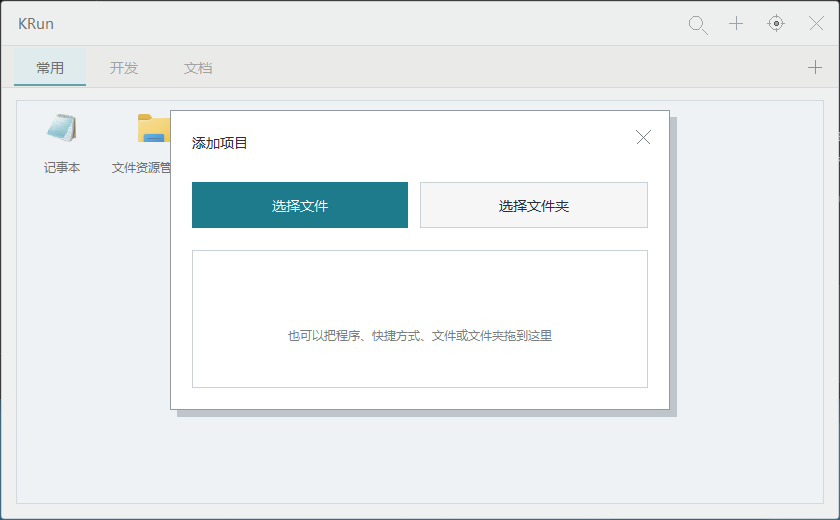
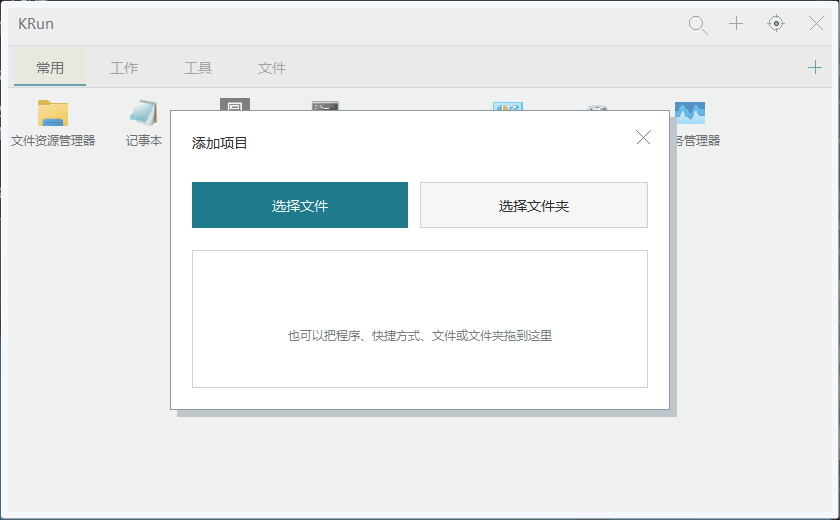
feat: add official website and portable release workflows

diff --git a/docs/style.css b/docs/style.css
@@ -1,0 +1,1 @@
+:root{--paper:#f5f5ef;--ink:#203931;--muted:#64726a;--line:#d9ded3;--accent:#315944;--lime:#dce89d;--white:#fff;scroll-behavior:smooth;color-scheme:light}*{box-sizing:border-box}body{margin:0;background:var(--paper);color:var(--ink);font:16px/1.7 "Segoe UI","Microsoft YaHei",sans-serif}a{color:inherit;text-decoration:none}button,input{font:inherit}button,a,input{ -webkit-tap-highlight-color:transparent}button{cursor:pointer}a,button,input{outline-offset:5px}a:focus-visible,button:focus-visible,input:focus-visible,[tabindex]:focus-visible{outline:3px solid #547c35}button,a{touch-action:manipulation}img{max-width:100%;height:auto;display:block}figure{margin:0}h1,h2,h3,p{margin-top:0}h1,h2,h3{line-height:1.22;letter-spacing:-.045em}h1{font-size:clamp(45px,6.4vw,84px);font-weight:600;margin-bottom:28px}h1 span{color:#7b876c}h2{font-size:clamp(29px,3.5vw,44px);font-weight:550;margin-bottom:28px}h3{font-size:22px;font-weight:600}p{color:var(--muted)}.wrap{max-width:1120px;margin-inline:auto;padding-inline:32px}.nav{display:flex;align-items:center;justify-content:space-between;height:94px;border-bottom:1px solid var(--line)}.brand{display:flex;gap:10px;align-items:center;font-size:24px;font-weight:650;letter-spacing:-1px}.brand span{font-size:10px;letter-spacing:2px;font-weight:500;color:var(--muted);margin-left:14px}.nav nav{display:flex;align-items:center;gap:30px;font-size:14px}.nav-download{border:1px solid var(--line);padding:8px 18px;border-radius:7px}.nav a:hover,footer a:hover{color:#6d813c}.hero{padding-top:74px;text-align:center;overflow:hidden}.eyebrow{font-size:12px;letter-spacing:2px;font-weight:600;margin-bottom:22px}.dot{display:inline-block;height:6px;width:6px;border-radius:50%;background:#6a8b45;margin-right:7px;box-shadow:0 0 0 4px #6a8b4510}.intro{font-size:17px;line-height:1.9}kbd{font:12px "Segoe UI",sans-serif;border:1px solid #d4dbcd;border-bottom-width:2px;border-radius:5px;padding:3px 7px;background:#fafbf7;color:var(--ink)}.actions{display:flex;gap:12px;justify-content:center;margin-top:30px}.button{display:inline-flex;align-items:center;justify-content:center;gap:35px;min-height:50px;padding:12px 25px;border-radius:7px;font-size:14px;transition:transform .2s,background .2s,box-shadow .2s}.primary{background:var(--ink);color:var(--white);box-shadow:0 7px 15px #20393113}.primary:hover{background:#355341;transform:translateY(-3px);box-shadow:0 10px 22px #20393125}.button:active{transform:translateY(1px) scale(.97)}.subtle{border:1px solid var(--line)}.subtle:hover{background:#e8eddf}.micro{font-size:11px;letter-spacing:1px;margin-top:17px}.hero-visual{position:relative;margin:60px auto 24px;max-width:900px;perspective:1500px}.image-frame{position:relative;padding:8px;border-radius:12px;background:#ffffff80;border:1px solid #fff;box-shadow:0 24px 55px #31462a20;transform:rotateX(7deg);transform-origin:center bottom;animation:arrive 1.1s cubic-bezier(.2,.7,.2,1) both}.image-frame img{width:100%;border-radius:5px}.halo{position:absolute;inset:-50px -80px;background:radial-gradient(ellipse,#ccdda280,transparent 68%);filter:blur(20px);animation:breathe 8s ease-in-out infinite alternate;pointer-events:none}figcaption{font-size:11px;color:var(--muted);margin-top:18px}.principles{display:flex;justify-content:space-evenly;gap:20px;font-size:12px;color:var(--muted);border-block:1px solid var(--line);padding-block:24px;margin-top:45px}.section{padding-top:110px;scroll-margin-top:28px}.section-heading{display:flex;justify-content:space-between;align-items:end;gap:24px}.section-heading>p{font-size:13px;margin-bottom:30px}.demo{background:#fcfcf9;border:1px solid #cdd5c8;border-radius:12px;overflow:hidden;box-shadow:0 18px 50px #243d2510}.demo-title{display:flex;justify-content:space-between;align-items:center;padding:16px 24px;border-bottom:1px solid var(--line)}.demo-title strong{font-weight:550}.demo-title strong span{font-size:10px;letter-spacing:1px;margin-left:12px;color:var(--muted)}.demo-title button{border:1px solid var(--line);background:transparent;border-radius:5px;padding:5px 16px;color:var(--ink)}.tabs{display:flex;gap:8px;padding:10px 20px 0;border-bottom:1px solid var(--line)}.tabs button{padding:10px 20px;border:0;border-bottom:2px solid transparent;background:none;color:var(--muted);font-size:13px;transition:background .2s,color .2s}.tabs button[aria-selected=true]{border-bottom-color:var(--accent);background:#e9eedd;color:var(--ink)}.tabs button:hover,.demo-title button:hover{background:#e5ebdd}.search-wrap{position:relative;margin:22px 24px 12px}.search-wrap label{display:block;font-size:11px;color:var(--muted);margin-bottom:5px}.search-wrap input{width:100%;border:1px solid var(--line);background:#fff;border-radius:6px;padding:10px 35px 10px 12px;font-size:13px;color:var(--ink)}.search-wrap>span{position:absolute;right:14px;bottom:7px;font-size:22px;color:var(--muted)}#demo-panel{min-height:255px;padding:12px 24px 30px}.demo-grid{display:grid;grid-template-columns:repeat(6,minmax(0,1fr));gap:8px}.app-tile{border:1px solid transparent;background:transparent;min-height:105px;border-radius:8px;color:var(--ink);display:flex;flex-direction:column;align-items:center;justify-content:center;gap:10px;font-size:12px;transition:transform .18s,background .18s,border-color .18s;animation:tile-in .3s ease both}.app-tile:hover{background:#e6eddb;transform:translateY(-3px)}.app-tile[aria-pressed=true]{background:#dce7cd;border-color:#bacba7}.app-tile:active{transform:scale(.94);background:#ccdcbc}.app-icon{display:grid;place-items:center;width:38px;height:38px;border-radius:10px;background:var(--tile-bg,#e5e9db);color:var(--tile-ink,#4b6340);font-size:19px;font-weight:600;box-shadow:inset 0 1px 0 #ffffff80}.demo-footer{border-top:1px solid var(--line);padding:12px 24px;display:flex;justify-content:space-between;gap:12px;font-size:10px;color:var(--muted)}#demo-settings{padding:25px 32px;min-height:365px}#demo-settings h3{margin-bottom:8px}#demo-settings>p{font-size:12px}.setting-row{display:flex;justify-content:space-between;align-items:center;padding:13px 0;border-top:1px solid var(--line);font-size:13px}.setting-row small{display:block;font-size:10px;color:var(--muted)}input[role=switch]{appearance:none;width:36px;height:20px;border-radius:20px;background:#c9cec5;cursor:pointer;position:relative;flex-shrink:0;transition:background .2s}input[role=switch]:before{content:"";position:absolute;top:3px;left:3px;width:14px;height:14px;border-radius:50%;background:#fff;transition:transform .2s}input[role=switch]:checked{background:var(--accent)}input[role=switch]:checked:before{transform:translateX(16px)}input[role=switch]:disabled{opacity:.4;cursor:not-allowed}#empty{padding-top:30px;text-align:center;font-size:13px}.features{display:grid;grid-template-columns:repeat(3,1fr);gap:22px;margin-top:40px}.features article{border-top:1px solid var(--line);padding:25px 0 0}.feature-number{font-size:11px;letter-spacing:2px;color:#89917b;display:block;margin-bottom:26px}.features p{font-size:13px;line-height:1.9;max-width:290px;min-height:75px}.code-art,.tag-art,.file-art{min-height:100px;background:#ecf0e4;border-radius:7px;display:flex;align-items:center;justify-content:center;font-size:15px;gap:8px}.code-art{font-family:monospace;font-size:19px}.code-art span{color:#87954f}.tag-art span{font-size:12px;border:1px solid #d2dbc5;padding:5px 11px;border-radius:5px}.tag-art span:first-child{background:#dce7c4}.file-art{font:13px monospace}.file-art span{color:#8a9679}.native{display:grid;grid-template-columns:.7fr 1fr;gap:65px;align-items:center}.native p,.native a{font-size:13px}.native a{text-decoration:underline;text-underline-offset:6px}.shots{display:grid;gap:22px}.shots figure{border:1px solid var(--line);border-radius:9px;padding:6px;background:#fff;box-shadow:0 12px 24px #243d2510;transition:transform .3s}.shots figure:hover{transform:translateY(-5px)}.shots img{border-radius:4px}.shots figcaption{padding:0 8px 4px;margin-top:8px}.closing{padding-top:120px;padding-bottom:100px;text-align:center}.closing h2{font-size:clamp(40px,5vw,65px)}footer{display:flex;align-items:center;gap:25px;border-top:1px solid var(--line);min-height:95px;font-size:11px}footer p{margin:0 auto 0 0}footer .brand{font-size:20px}.skip{position:fixed;top:-70px;left:20px;z-index:20;padding:10px;background:#fff}.skip:focus{top:10px}.reveal{transition:opacity .8s,transform .8s}.motion .reveal:not(.visible){opacity:0;transform:translateY(35px)}[hidden]{display:none!important}@keyframes arrive{from{opacity:0;transform:translateY(55px) rotateX(15deg)}to{opacity:1;transform:translateY(0) rotateX(7deg)}}@keyframes breathe{to{transform:translateY(20px) scale(1.12);opacity:.6}}@keyframes tile-in{from{opacity:0;transform:translateY(8px)}to{opacity:1;transform:translateY(0)}}@media(max-width:720px){.wrap{padding-inline:22px}.nav{height:78px}.brand span{display:none}.nav nav{gap:17px}.hero{padding-top:52px}.intro{font-size:14px}.hero-visual{margin-top:40px}.principles{font-size:10px;gap:10px;text-align:center}.section{padding-top:75px}.section-heading{display:block}.demo-grid{grid-template-columns:repeat(3,minmax(0,1fr))}.demo-footer{flex-direction:column;gap:4px}.features{grid-template-columns:1fr;gap:35px}.features p{max-width:none;min-height:auto}.feature-number{margin-bottom:18px}.features h3{margin-bottom:14px}.native{grid-template-columns:1fr;gap:25px}.shots{grid-template-columns:1fr 1fr;gap:12px}.closing{padding-block:80px}.demo-title{padding:14px 18px}#demo-panel{padding-inline:14px}.search-wrap{margin-inline:18px}footer{flex-wrap:wrap;gap:15px;padding-block:24px}footer p{width:calc(100% - 80px);font-size:10px}.eyebrow{font-size:10px}.shots figcaption{font-size:9px}}@media(prefers-reduced-motion:reduce){:root{scroll-behavior:auto}*,*:before,*:after{animation:none!important;transition:none!important}.motion .reveal:not(.visible){opacity:1;transform:none}.image-frame{transform:none}}

diff --git a/docs/index.html b/docs/index.html
@@ -1,0 +1,24 @@
+<!doctype html>
+<html lang="zh-CN">
+<head>
+<meta charset="utf-8"><meta name="viewport" content="width=device-width, initial-scale=1">
+<meta name="description" content="KRun 是 Rust + Win32 构建的开源 Windows 分类启动器。一个快捷键，让应用、文件和文件夹触手可及。便携使用，配置留在本地。">
+<meta name="theme-color" content="#f5f5ef"><meta property="og:title" content="KRun — 少一点寻找，多一点专注。"><meta property="og:description" content="原生 Windows 分类启动器。一个快捷键，回到你的工作节奏。"><meta property="og:type" content="website"><meta property="og:image" content="https://1227cwx.github.io/krun/images/krun-launcher.png">
+<title>KRun — 少一点寻找，多一点专注。</title>
+<link rel="icon" href="icon.svg" type="image/svg+xml"><link rel="stylesheet" href="style.css"><script defer src="app.js"></script>
+</head>
+<body>
+<a class="skip" href="#main">跳到主要内容</a>
+<header class="nav wrap"><a class="brand" href="#" aria-label="KRun 首页"><img src="icon.svg" alt="" width="30" height="30">KRun<span>FOR WINDOWS</span></a><nav aria-label="主导航"><a href="#experience">体验</a><a href="#details">特点</a><a class="nav-download" href="https://github.com/1227cwx/krun/releases" target="_blank" rel="noopener">下载 <span aria-hidden="true">↗</span></a></nav></header>
+<main id="main">
+<section class="hero wrap"><p class="eyebrow"><span class="dot"></span> 小巧原生 · 开源免费 · 为 Windows 而生</p><h1>少一点寻找，<br><span>多一点专注。</span></h1><p class="intro">应用、文件、文件夹，收进一个安静的启动板。<br>按下 <kbd>Alt</kbd> + <kbd>Q</kbd>，回到你的工作节奏。</p><div class="actions"><a class="button primary" href="https://github.com/1227cwx/krun/releases" target="_blank" rel="noopener">下载 KRun <span aria-hidden="true">↗</span></a><a class="button subtle" href="#experience">先试一下 <span aria-hidden="true">↓</span></a></div><p class="micro">Windows 10 / 11 · x64 · 解压即用</p>
+<figure class="hero-visual"><div class="halo" aria-hidden="true"></div><div class="image-frame"><img src="images/krun-launcher.png" alt="当前 KRun 原生启动板实拍，显示常用、工作、工具和文件分类及 Windows 系统应用" width="840" height="520" fetchpriority="high"></div><figcaption><span class="dot"></span> 真正的原生界面。当前构建实拍，使用公开示例配置。</figcaption></figure></section>
+<div class="principles wrap"><span>Rust + Win32 / GDI</span><span>配置留在本地</span><span>MIT 开源许可</span></div>
+<section id="experience" class="section wrap reveal"><div class="section-heading"><div><p class="eyebrow">01 / 上手，不用想太多</p><h2>顺手，就是最好的功能。</h2></div><p>切换分类、输入搜索，再点开设置。<br>在浏览器里，感受 KRun 的交互节奏。</p></div>
+<div class="demo" role="region" aria-label="KRun 交互模拟启动器"><div class="demo-title"><strong>KRun <span>交互演示</span></strong><button id="settings-button" type="button" aria-expanded="false" aria-controls="demo-settings">设置</button></div><div id="launcher-view"><div class="tabs" role="tablist" aria-label="演示项目分类"><button type="button" role="tab" id="tab-daily" aria-selected="true" aria-controls="demo-panel" data-category="daily">常用</button><button type="button" role="tab" id="tab-work" aria-selected="false" aria-controls="demo-panel" tabindex="-1" data-category="work">工作</button><button type="button" role="tab" id="tab-tools" aria-selected="false" aria-controls="demo-panel" tabindex="-1" data-category="tools">工具</button></div><div class="search-wrap"><label for="demo-search">搜索示例项目</label><input id="demo-search" type="search" placeholder="试试“记事本”或“文档”" autocomplete="off"><span aria-hidden="true">⌕</span></div><div id="demo-panel" role="tabpanel" aria-labelledby="tab-daily" tabindex="0"><div id="demo-grid" class="demo-grid"></div><p id="empty" hidden>没有匹配的项目，换个关键词试试。</p></div></div>
+<div id="demo-settings" hidden><h3>让启动板适应你。</h3><p>以下开关仅改变演示，不修改电脑设置。</p><div class="setting-row"><span>显示快捷键</span><kbd>Alt + Q</kbd></div><label class="setting-row" for="double-click"><span>项目双击运行<small>关闭后单击即可模拟运行</small></span><input id="double-click" type="checkbox" role="switch" checked></label><label class="setting-row" for="centered"><span>居中显示<small>开启时锁定移动开关</small></span><input id="centered" type="checkbox" role="switch" checked></label><label class="setting-row" for="movable"><span>允许移动</span><input id="movable" type="checkbox" role="switch" disabled></label><label class="setting-row" for="resizable"><span>允许调整大小</span><input id="resizable" type="checkbox" role="switch" checked></label></div><div class="demo-footer"><span id="demo-status" role="status" aria-live="polite">单击选择，双击或按 Enter 模拟运行。</span><span>仅为网页演示 · 不运行本机程序</span></div></div><noscript><p>启用 JavaScript 即可体验交互演示；截图和下载链接无需 JavaScript。</p></noscript></section>
+<section id="details" class="section wrap reveal"><p class="eyebrow">02 / 恰到好处</p><h2>把空间，留给正在做的事。</h2><div class="features"><article><span class="feature-number">01</span><h3>原生，也简单。</h3><p>Rust 与 Windows 原生 API 构建。没有浏览器内核，不需要额外 GUI 运行环境。</p><div class="code-art" aria-hidden="true">{ <span>less</span> is more }</div></article><article><span class="feature-number">02</span><h3>按你的方式归类。</h3><p>自由分类，拖入程序与文件。搜索已添加项目的名称和路径，让常用内容各就各位。</p><div class="tag-art" aria-hidden="true"><span>常用</span><span>工作</span><span>工具</span><span>+</span></div></article><article><span class="feature-number">03</span><h3>带走，就能继续。</h3><p>解压即用。配置保存在程序旁的 launcher.json，随文件夹迁移，不依赖在线账户。</p><div class="file-art" aria-hidden="true">KRun.exe <span>+</span> launcher.json</div></article></div></section>
+<section class="section wrap native reveal"><div><p class="eyebrow">03 / 真实的细节</p><h2>安静的外表，<br>细致的照顾。</h2><p>可配置热键、窗口居中与尺寸调整。<br>设置保持直观，添加项目也一样。</p><a href="https://github.com/1227cwx/krun#readme" target="_blank" rel="noopener">阅读完整使用说明 ↗</a></div><div class="shots"><figure><img src="images/krun-settings.png" width="840" height="520" alt="KRun 设置页实拍：快捷键、开机启动、双击运行、居中、移动与尺寸调整" loading="lazy"><figcaption>设置 · 当前构建实拍</figcaption></figure><figure><img src="images/krun-add-item.png" width="840" height="520" alt="KRun 添加项目面板实拍：选择文件、选择文件夹或拖放添加" loading="lazy"><figcaption>添加项目 · 当前构建实拍</figcaption></figure></div></section>
+<section class="closing wrap reveal"><p class="eyebrow">让下一次开始，更轻松。</p><h2>你的常用，<br>一键就绪。</h2><a class="button primary" href="https://github.com/1227cwx/krun/releases" target="_blank" rel="noopener">下载 KRun <span aria-hidden="true">↗</span></a><p class="micro">便携版 · 免费开源 · 无需账户</p></section>
+</main><footer class="wrap"><a class="brand" href="#">KRun</a><p>为专注而简。为 Windows 而生。</p><a href="https://github.com/1227cwx/krun" target="_blank" rel="noopener">GitHub ↗</a><a href="https://github.com/1227cwx/krun/blob/main/LICENSE" target="_blank" rel="noopener">MIT License</a></footer>
+</body></html>

diff --git a/docs/app.js b/docs/app.js
@@ -1,0 +1,114 @@
+'use strict';
+(() => {
+  const $ = (selector) => document.querySelector(selector);
+  const items = [
+    {name: '文件资源管理器', category: 'daily', icon: '▱', color: '#eee4b9'},
+    {name: '记事本', category: 'daily', icon: '▤', color: '#d7e7e2'},
+    {name: '计算器', category: 'daily', icon: '⊞', color: '#e0dfda'},
+    {name: '终端', category: 'daily', icon: '>_', color: '#d5e0d5'},
+    {name: '浏览器', category: 'daily', icon: '◎', color: '#d5e5ec'},
+    {name: '任务管理器', category: 'daily', icon: '▥', color: '#dce5f0'},
+    {name: '项目文档', category: 'work', icon: '▤', color: '#e4e0ce'},
+    {name: '设计素材', category: 'work', icon: '◇', color: '#e7dfd8'},
+    {name: '工作文件夹', category: 'work', icon: '▱', color: '#eee4b9'},
+    {name: '编辑器', category: 'work', icon: '{ }', color: '#d5e5ec'},
+    {name: '命令提示符', category: 'tools', icon: '>_', color: '#d5e0d5'},
+    {name: '控制面板', category: 'tools', icon: '⊞', color: '#dce5f0'},
+    {name: '字符映射表', category: 'tools', icon: 'Aa', color: '#e6dfeb'}
+  ];
+  const tabs = [...document.querySelectorAll('[role="tab"]')];
+  const grid = $('#demo-grid');
+  const search = $('#demo-search');
+  const status = $('#demo-status');
+  const settings = $('#settings-button');
+  let category = 'daily';
+  let selected = '';
+  const announce = (message) => { status.textContent = message; };
+  function select(tile, item) {
+    selected = item.name;
+    grid.querySelectorAll('button').forEach(button => button.setAttribute('aria-pressed', String(button === tile)));
+    announce(`已选择「${item.name}」。双击或按 Enter 模拟运行。`);
+  }
+  function launch(item) { announce(`已模拟运行「${item.name}」。此演示不会启动本机程序。`); }
+  function render() {
+    const query = search.value.trim().toLocaleLowerCase();
+    const visible = items.filter(item => query ? item.name.toLocaleLowerCase().includes(query) : item.category === category);
+    grid.replaceChildren();
+    $('#empty').hidden = visible.length > 0;
+    visible.forEach((item, index) => {
+      const tile = document.createElement('button');
+      tile.type = 'button'; tile.className = 'app-tile';
+      tile.setAttribute('aria-pressed', String(selected === item.name));
+      tile.setAttribute('aria-label', `${item.name}，模拟项目`);
+      tile.style.animationDelay = `${index * 25}ms`;
+      const icon = document.createElement('span');
+      icon.className = 'app-icon'; icon.setAttribute('aria-hidden', 'true');
+      icon.textContent = item.icon; icon.style.setProperty('--tile-bg', item.color);
+      const label = document.createElement('span'); label.textContent = item.name;
+      tile.append(icon, label);
+      tile.addEventListener('click', event => {
+        select(tile, item);
+        if (!$('#double-click').checked || event.detail === 0) launch(item);
+      });
+      tile.addEventListener('dblclick', () => { if ($('#double-click').checked) launch(item); });
+      tile.addEventListener('keydown', event => {
+        const buttons = [...grid.children];
+        const columns = getComputedStyle(grid).gridTemplateColumns.split(' ').length;
+        const offset = {ArrowRight: 1, ArrowLeft: -1, ArrowDown: columns, ArrowUp: -columns}[event.key];
+        if (offset !== undefined) {
+          event.preventDefault();
+          buttons[Math.max(0, Math.min(buttons.length - 1, index + offset))].focus();
+        }
+      });
+      grid.append(tile);
+    });
+    if (query) announce(`找到 ${visible.length} 个示例项目。搜索范围：所有分类。`);
+  }
+  function activate(tab) {
+    category = tab.dataset.category; selected = ''; search.value = '';
+    tabs.forEach(item => { const active = item === tab; item.setAttribute('aria-selected', String(active)); item.tabIndex = active ? 0 : -1; });
+    $('#demo-panel').setAttribute('aria-labelledby', tab.id);
+    render(); announce(`已切换到「${tab.textContent}」分类。`);
+  }
+  tabs.forEach((tab, index) => {
+    tab.addEventListener('click', () => activate(tab));
+    tab.addEventListener('keydown', event => {
+      let next;
+      if (event.key === 'ArrowRight') next = (index + 1) % tabs.length;
+      if (event.key === 'ArrowLeft') next = (index + tabs.length - 1) % tabs.length;
+      if (event.key === 'Home') next = 0;
+      if (event.key === 'End') next = tabs.length - 1;
+      if (next !== undefined) { event.preventDefault(); activate(tabs[next]); tabs[next].focus(); }
+    });
+  });
+  search.addEventListener('input', () => { selected = ''; render(); if (!search.value.trim()) announce('已清除搜索，显示当前分类。'); });
+  function toggleSettings(open) {
+    settings.setAttribute('aria-expanded', String(open));
+    settings.textContent = open ? '返回启动板' : '设置';
+    $('#launcher-view').hidden = open; $('#demo-settings').hidden = !open;
+    announce(open ? '设置仅作用于网页演示。' : '已返回启动板。');
+  }
+  settings.addEventListener('click', () => toggleSettings(settings.getAttribute('aria-expanded') !== 'true'));
+  $('#centered').addEventListener('change', event => {
+    $('#movable').disabled = event.target.checked;
+    if (event.target.checked) $('#movable').checked = false;
+  });
+  $('#demo-settings').addEventListener('change', event => {
+    const label = event.target.closest('label');
+    if (label) announce(`${label.querySelector('span').firstChild.textContent}已${event.target.checked ? '开启' : '关闭'}，仅影响演示。`);
+  });
+  $('.demo').addEventListener('keydown', event => {
+    if (event.key === 'Escape') {
+      if (settings.getAttribute('aria-expanded') === 'true') { toggleSettings(false); settings.focus(); }
+      else { search.value = ''; selected = ''; render(); search.focus(); announce('已清除搜索与选择。'); }
+    }
+  });
+  render();
+  if ('IntersectionObserver' in window && !window.matchMedia('(prefers-reduced-motion: reduce)').matches) {
+    const observer = new IntersectionObserver(entries => entries.forEach(entry => {
+      if (entry.isIntersecting) { entry.target.classList.add('visible'); observer.unobserve(entry.target); }
+    }), {threshold: 0.08});
+    document.querySelectorAll('.reveal').forEach(section => observer.observe(section));
+    document.documentElement.classList.add('motion');
+  }
+})();

diff --git a/README.md b/README.md
@@ -1,20 +1,22 @@
 <div align="center">
   <img src="assets/krun.png" width="128" alt="KRun logo">
   <h1>KRun</h1>
-  <p><strong>轻量 · 极简 · 极速响应 · 极低资源占用</strong></p>
+  <p><strong>原生 · 极简 · 便携 · 开源</strong></p>
   <p>一个使用 Rust 和原生 Win32 API 构建的开源 Windows 分类启动器。</p>
 
   <p>
     <img alt="Windows" src="https://img.shields.io/badge/Windows-10%20%7C%2011-0078D4?logo=windows">
     <img alt="Rust" src="https://img.shields.io/badge/Rust-2024-000000?logo=rust">
     <img alt="License" src="https://img.shields.io/badge/license-MIT-168393">
-    <img alt="Release size" src="https://img.shields.io/badge/x64%20EXE-%3C%201%20MiB-168393">
+    <a href="https://github.com/1227cwx/krun/releases" target="_blank" rel="noopener"><img alt="下载便携版" src="https://img.shields.io/badge/下载-便携版-168393"></a>
   </p>
 </div>
 
 KRun 用一个快捷键呼出你的应用、文件、文件夹与快捷方式。它不依赖 Electron、WebView 或额外 GUI 运行环境，配置与程序放在一起，解压即可使用。
 
 ## 预览
+
+以下三张截图均来自当前发布构建的真实 Windows 窗口，使用临时目录中的公开示例配置；不包含个人启动项。官网静态源码位于 [`docs/`](docs/index.html)，提供分类、搜索与设置的交互模拟。
 
 <p align="center">
   <img src="docs/images/krun-launcher.png" width="840" alt="KRun launcher">
@@ -29,9 +31,9 @@ KRun 用一个快捷键呼出你的应用、文件、文件夹与快捷方式。
 
 ## 为什么选择 KRun
 
-- **轻量原生**：Rust + Win32/GDI，发布文件不到 1 MiB，无浏览器内核。
-- **极速响应**：全局快捷键呼出，分类与搜索完全在内存中完成。
-- **低资源占用**：单线程消息循环；系统图标按需异步加载并缓存。
+- **轻量原生**：Rust + Win32/GDI，无浏览器内核或额外 GUI 运行环境。
+- **快捷呼出**：全局快捷键唤起，分类与搜索在内存中完成。
+- **按需加载**：Win32 消息循环；系统图标异步加载并缓存。
 - **极简操作**：分类、拖放、搜索和右键操作都集中在一个启动板中。
 - **便携配置**：`launcher.json` 固定保存在 EXE 同目录，不依赖安装器。
 - **开放源码**：使用 [MIT License](LICENSE)，可以自由使用、修改和分发。
@@ -93,6 +95,10 @@ KRun 是便携软件，不需要安装。
 > KRun 会在 EXE 同目录创建 `launcher.json`。请不要把程序放在当前用户没有写权限的目录中。
 
 当前项目尚未提供自动更新器。未签名的本地构建可能触发 Windows SmartScreen 提示。
+
+发布包只包含 `KRun.exe` 与 `LICENSE`，不附带任何 `launcher.json`。下载同一 Release 的 `SHA256SUMS` 后，可在 PowerShell 中运行 `Get-FileHash .\KRun-*-windows-x64.zip -Algorithm SHA256`，与校验文件中的值逐字比较。升级时先退出托盘中的 KRun，再替换 EXE，保留原目录中的配置。
+
+CPU、内存和响应时间尚未进行可复现基准测量，本项目不宣称具体性能数值。
 
 ## 键盘操作
 
@@ -199,10 +205,10 @@ build-release.ps1       发布构建脚本
 
 ## 路线图
 
-- Windows CI：格式、Clippy、测试和 Release 构建
 - 可复现的冷启动、热键响应、内存和 CPU 基准
 - 更完整的主题与可访问性支持
-- GitHub Release 自动打包和校验文件
+
+仓库已包含 Windows 发布工作流（格式、Clippy、测试、Release 打包和 SHA-256 校验）以及 GitHub Pages 工作流。Pages 是否可启用取决于仓库当前可见性及账户计划，发布状态以 GitHub Actions 为准。
 
 ## 贡献
 
